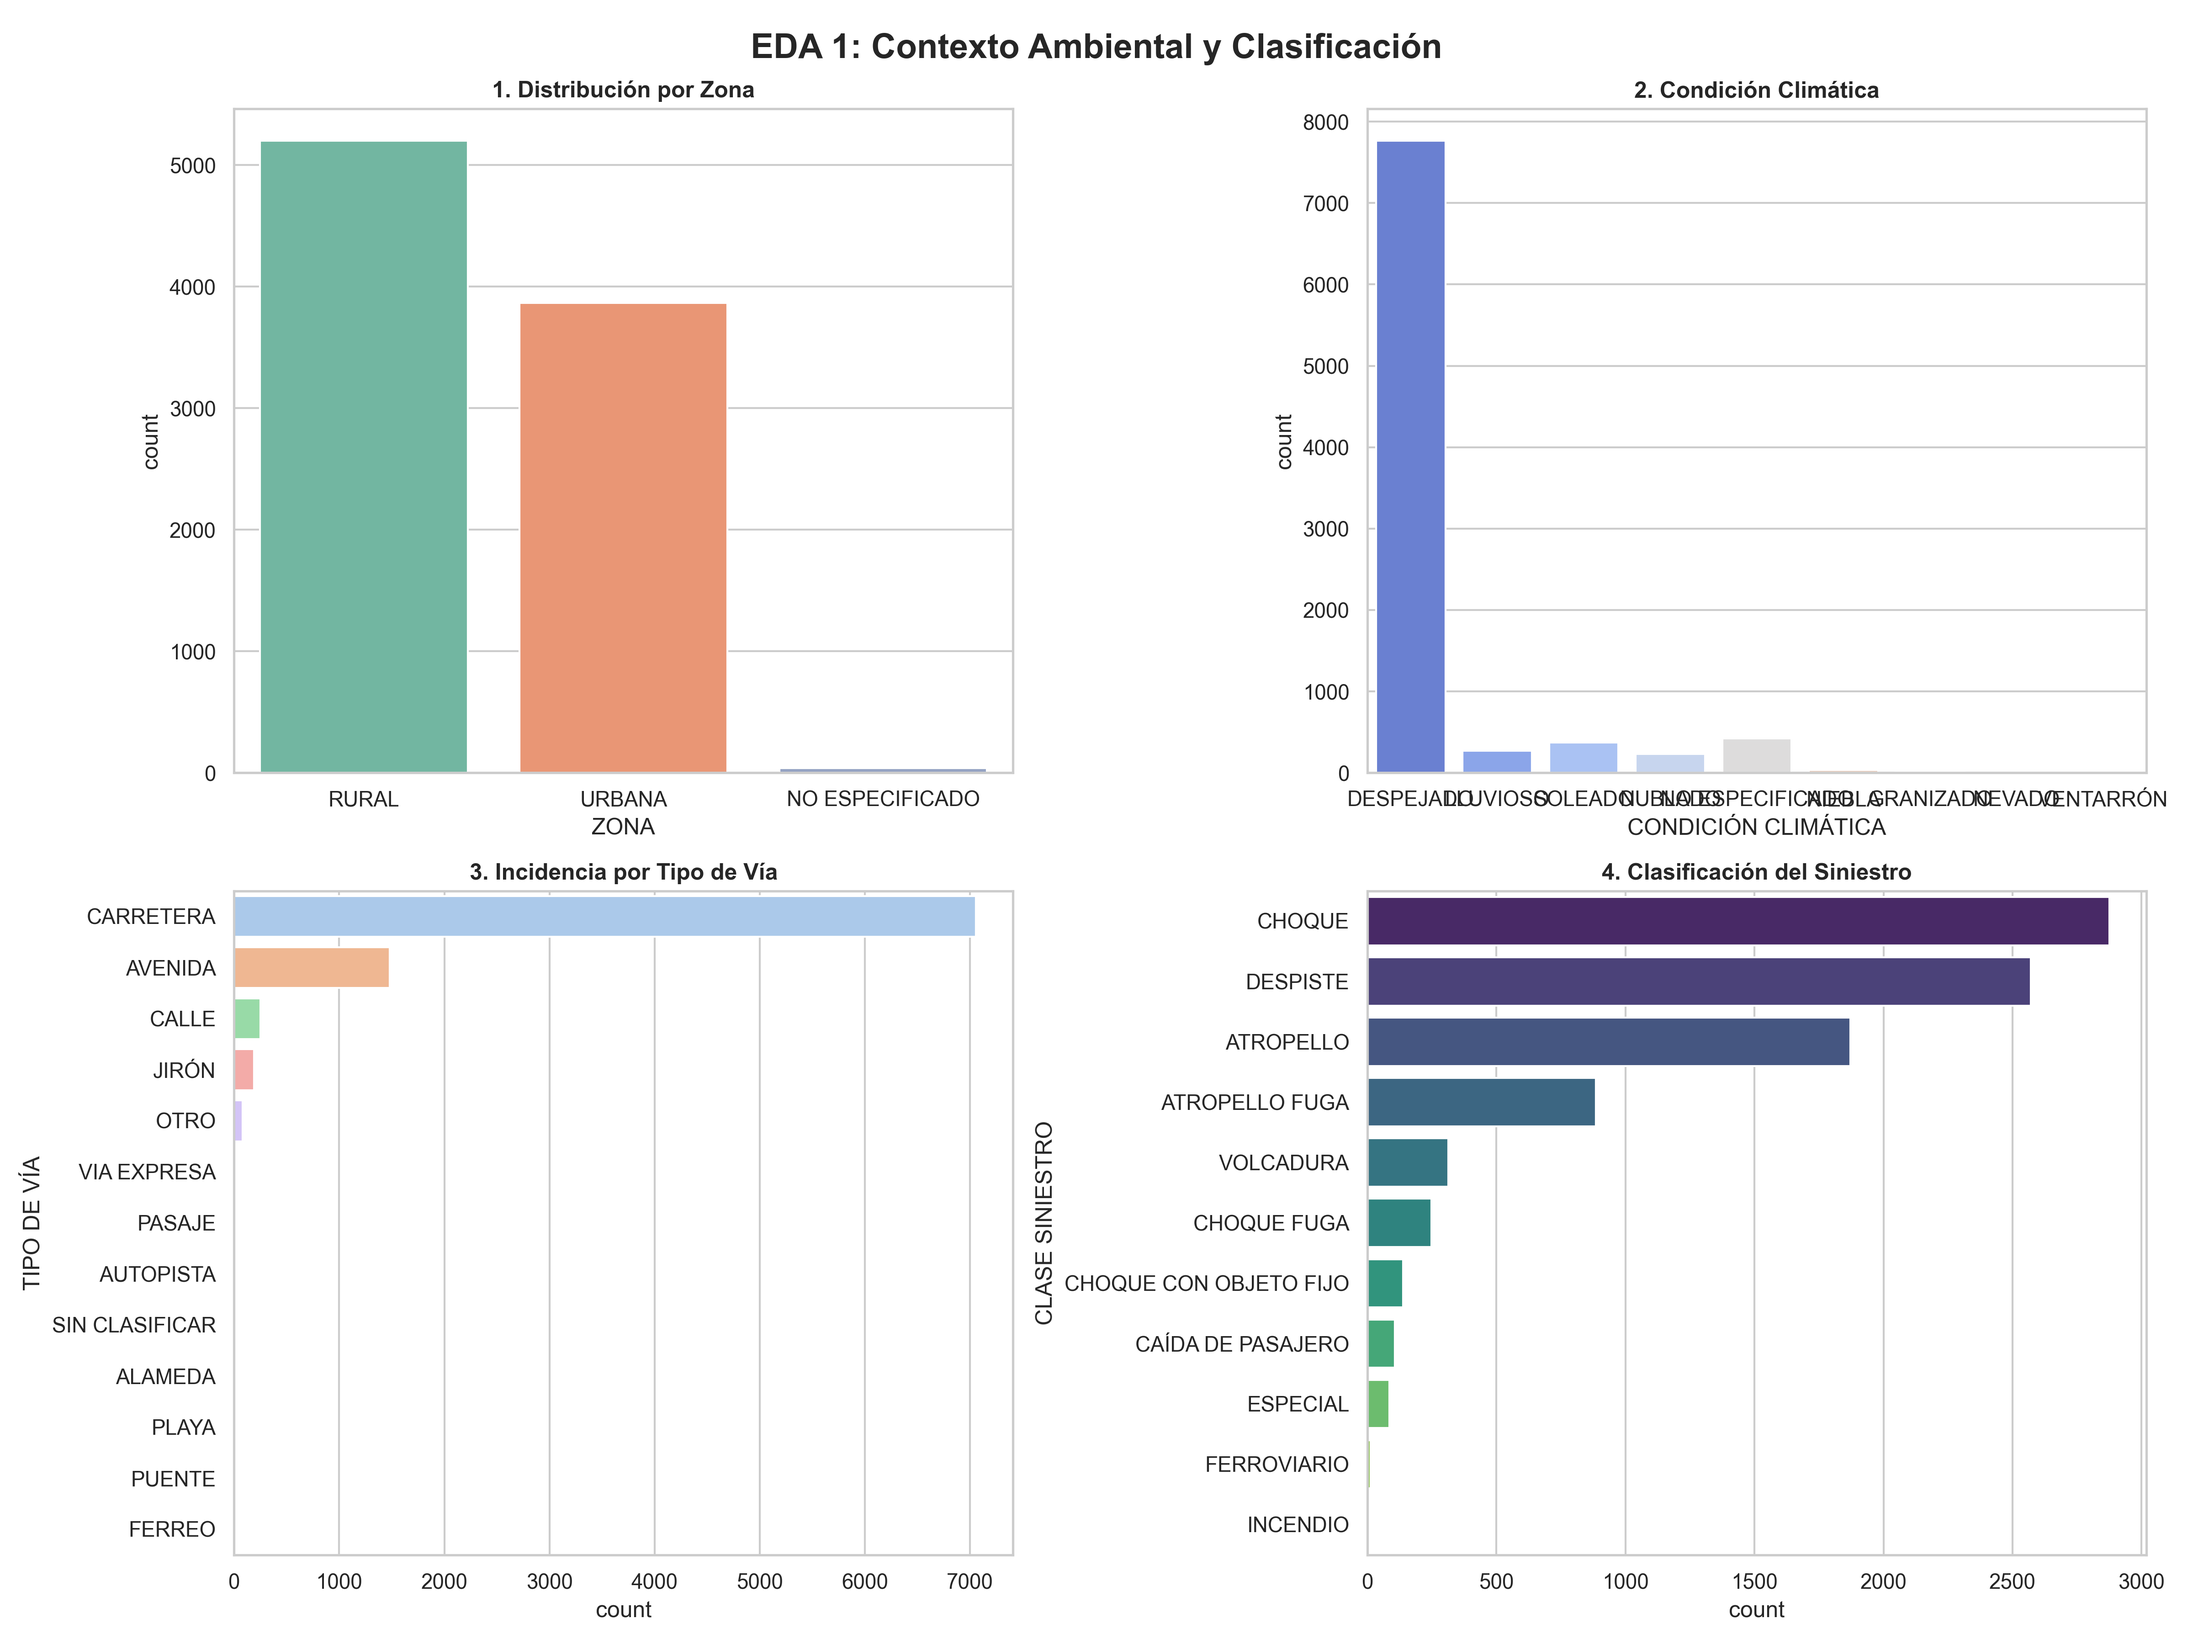
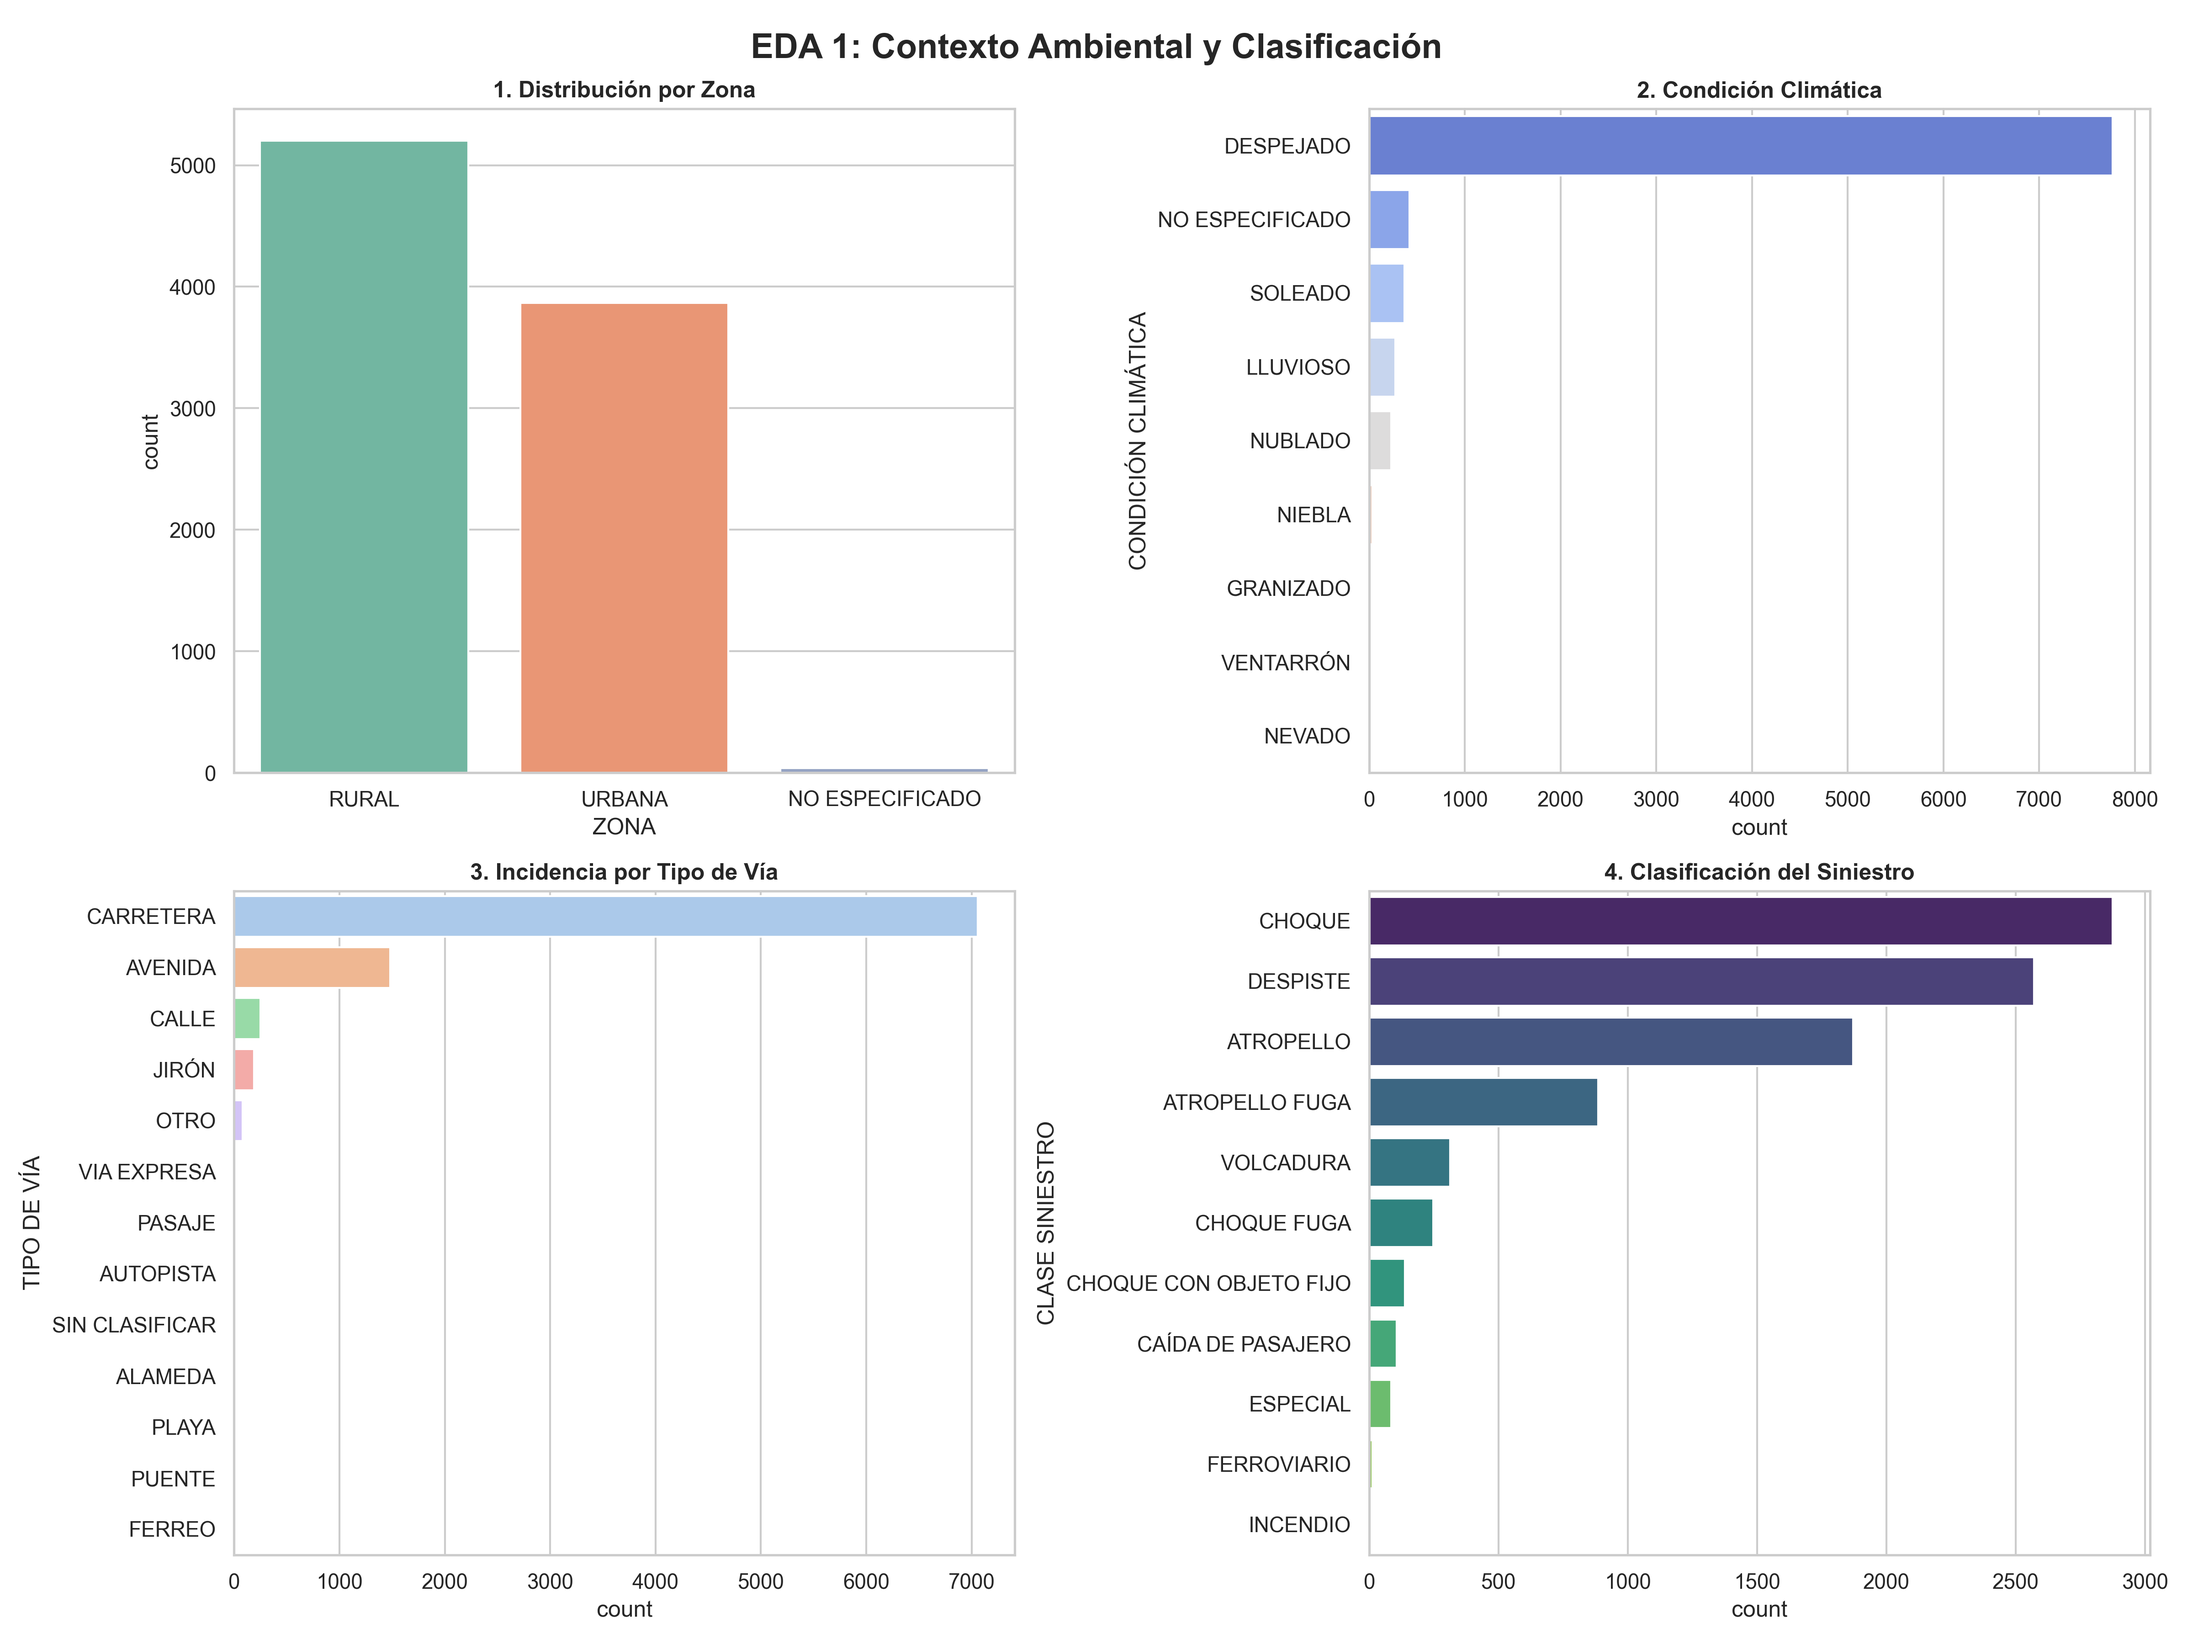
fix EDA analysis - wheather condition

diff --git a/src/data_analysis.py b/src/data_analysis.py
@@ -24,7 +24,7 @@ fig.suptitle('EDA 1: Contexto Ambiental y Clasificación', fontsize=18, fontweig
 
 sns.countplot(data=df, x='ZONA', ax=axes[0, 0], palette='Set2')
 axes[0, 0].set_title('1. Distribución por Zona', fontweight='bold')
-sns.countplot(data=df, x='CONDICIÓN CLIMÁTICA', ax=axes[0, 1], palette='coolwarm')
+sns.countplot(data=df, y='CONDICIÓN CLIMÁTICA', ax=axes[0, 1], palette='coolwarm', order=df['CONDICIÓN CLIMÁTICA'].value_counts().index)
 axes[0, 1].set_title('2. Condición Climática', fontweight='bold')
 sns.countplot(data=df, y='TIPO DE VÍA', ax=axes[1, 0], palette='pastel', order=df['TIPO DE VÍA'].value_counts().index)
 axes[1, 0].set_title('3. Incidencia por Tipo de Vía', fontweight='bold')

diff --git a/src/data_wrangling.py b/src/data_wrangling.py
@@ -120,7 +120,7 @@ print("\n" + "="*95)
 print(" REPORTE DE GOBIERNO DE DATOS: AUDITORÍA DE 16 VARIABLES CRÍTICAS")
 print("="*95)
 for i, reg in enumerate(auditoria['variables_auditadas'], 1):
-    icono = "✅" if reg['Corruptos/Nulos'] == 0 else "⚠"
+    icono = "✅" if reg['Corruptos/Nulos'] == 0 else "⚠ "
     print(f" {i:>2}. {reg['Tabla']:<11} | {reg['Variable']:<35} | {reg['Corruptos/Nulos']:<8} | {icono} {reg['Acción']}")
 print(f"\n DATASET MAESTRO (Con Población Integrada): {len(df_master)} incidentes listos.")
 print("="*95 + "\n")
